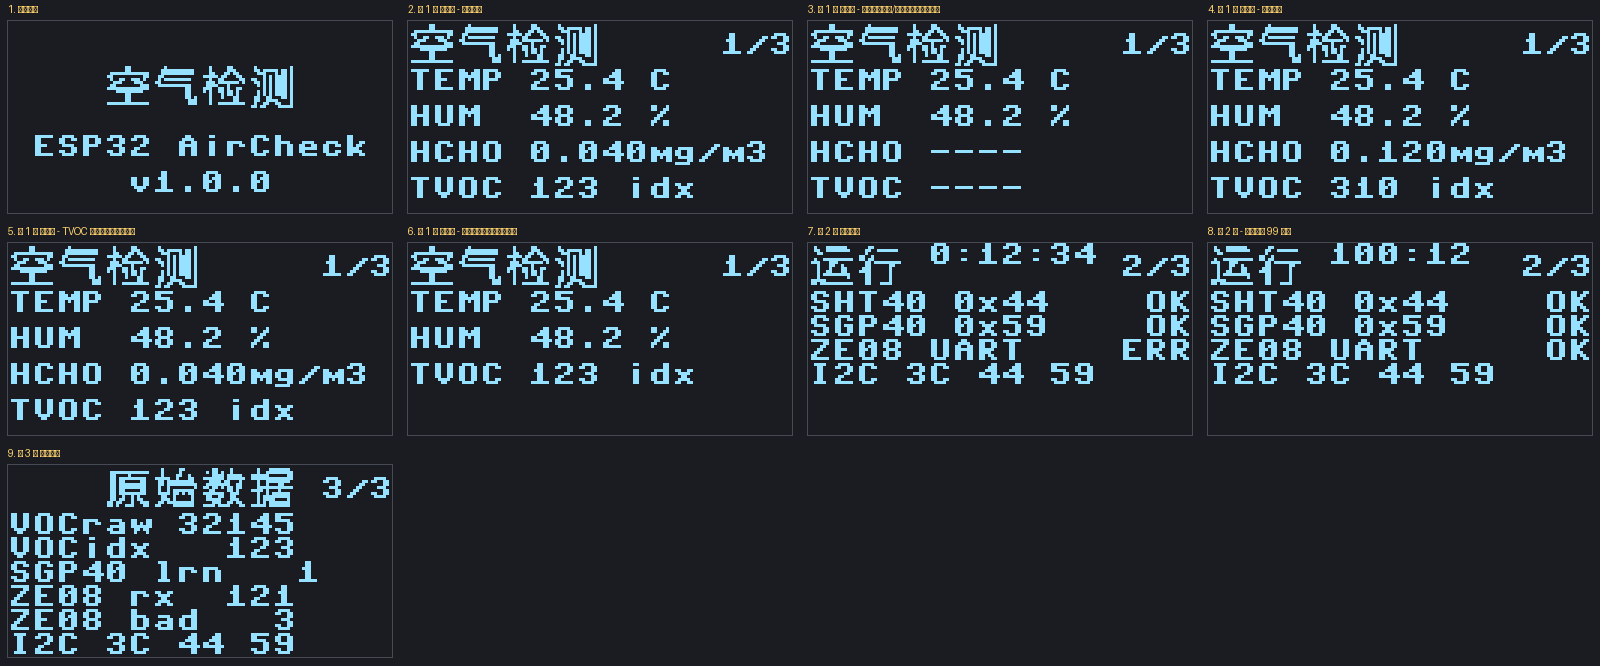
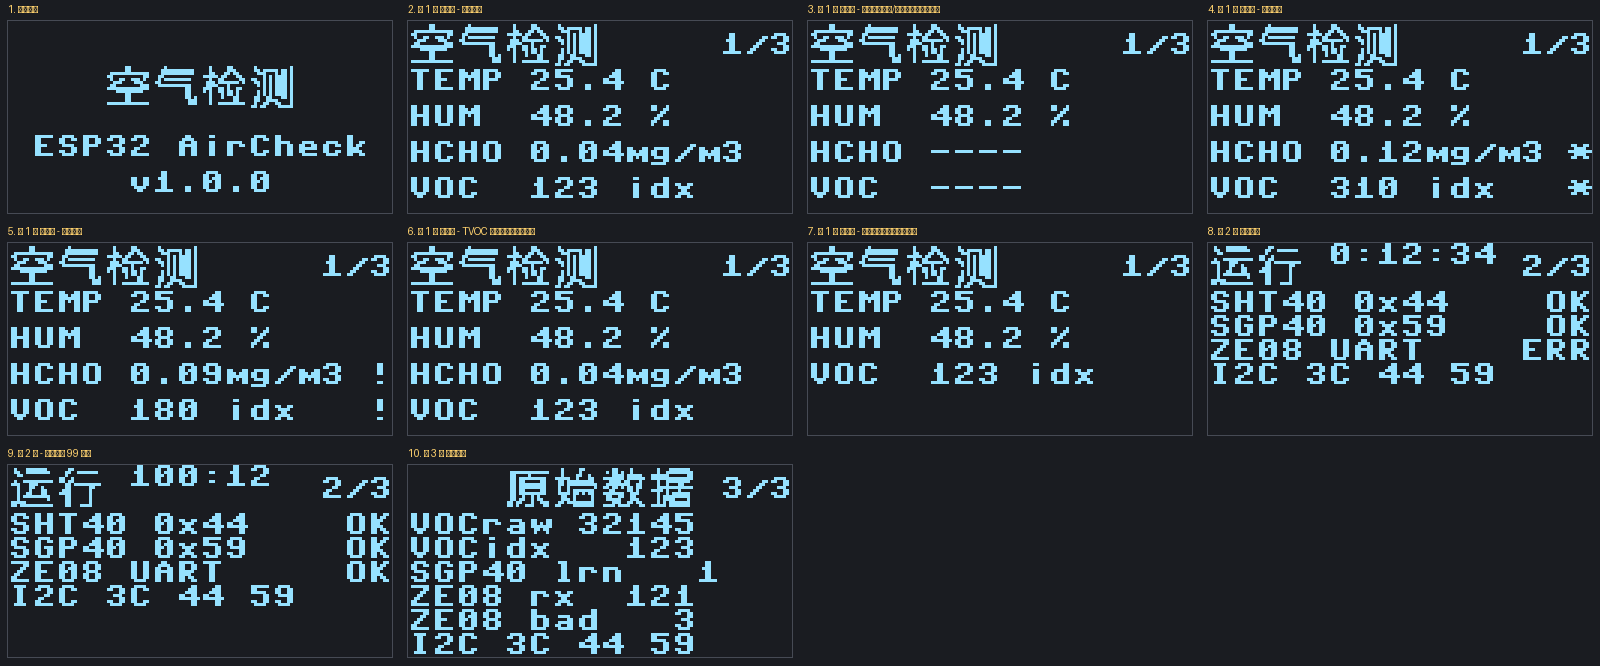
修正传感器换算与显示, 支持 ZE08 问答模式
- ZE08 问答模式周期请求, 修复 5 秒后掉线
- 统一 ze08.ugm3 单位为 ug/m3, 超量程限幅
- HCHO 显示改为 2 位小数, 主界面标签改为 VOC
- 启用警告阈值: 警告 ! / 报警 *; 修正 SGP40 软复位和 SHT40 加热器
- 补充 ZE08 问答、单位、警告阈值回归测试并同步文档

diff --git a/src/sensors.py b/src/sensors.py
@@ -130,7 +130,6 @@ class Channel:
         self.learn_end = 0
         self.probe_start = 0
         self.next_probe = 0
-        self.asked = False
         self.fails = 0
         self.error = None
 
@@ -148,7 +147,6 @@ class Channel:
         self.next_probe = now + cfg.RESCAN_MS
         self.fails = 0
         self.probe_start = now
-        self.asked = False
 
     def snapshot(self, now):
         state = self.state
@@ -245,6 +243,7 @@ class SensorManager:
             "tvoc": None,
         }
         self.alarm = {"sht40": False, "ze08": False, "sgp40": False}
+        self.warn = {"sht40": False, "ze08": False, "sgp40": False}
         self.info = {
             "voc_raw": 0, "voc_learning": False, "voc_uptime": 0,
             "ze08_frames": 0, "ze08_bad": 0, "scan": "",
@@ -484,7 +483,6 @@ class SensorManager:
                 return
             ch.state = ST_PROBE
             ch.probe_start = now
-            ch.asked = False
             if self.drv_ze08 is None:
                 self.drv_ze08 = ze08.ZE08(self.uart)
             self.drv_ze08.reset()
@@ -494,6 +492,14 @@ class SensorManager:
             ch.probe_start = now
 
         z = self.drv_ze08
+
+        # 问答模式不会主动上传, 必须周期性地要数据。
+        # 主动模式(0x17)则完全不用发命令。
+        if ch.state in (ST_WARMUP, ST_READY) and z.mode == "qa":
+            if z._last_cmd_ms is None or \
+                    ticks_diff(now, z._last_cmd_ms) >= 900:
+                z.request_reading()
+
         got = z.poll()
         self.info["ze08_frames"] = z.frames
         self.info["ze08_bad"] = z.bad_frames
@@ -507,11 +513,13 @@ class SensorManager:
                 self.values["hcho_mg"] = z.ppb * ze08.PPB_TO_MG
                 ch.begin_warmup(now)
                 print("[ZE08] 已连接, 预热 %ds" % ch.warmup_s)
-            elif ticks_diff(now, ch.probe_start) > 500 and not ch.asked:
-                z.request_reading()             # 模块可能被切成问答模式
-                ch.asked = True
             elif ticks_diff(now, ch.probe_start) > 2500:
                 ch.drop(now, ST_ABSENT)
+            elif ticks_diff(now, ch.probe_start) > 500:
+                # 每 500ms 重试一次, 直到超时; 防止单次请求丢失
+                if z._last_cmd_ms is None or \
+                        ticks_diff(now, z._last_cmd_ms) >= 500:
+                    z.request_reading()
             return
 
         if got is not None:
@@ -563,12 +571,22 @@ class SensorManager:
     def _eval_alarm(self):
         v = self.values
         a = self.alarm
+        w = self.warn
+        ze_ready = self.ch["ze08"].state == ST_READY
+        sg_ready = self.ch["sgp40"].state == ST_READY
         # 只有在"预热完成"之后才判定, 避免预热期间的无效读数误报
-        a["ze08"] = (self.ch["ze08"].state == ST_READY
-                     and v["hcho_mg"] is not None and v["hcho_mg"] >= cfg.HCHO_ALARM)
-        a["sgp40"] = (self.ch["sgp40"].state == ST_READY
-                      and v["tvoc"] is not None and v["tvoc"] >= cfg.TVOC_ALARM)
+        a["ze08"] = (ze_ready and v["hcho_mg"] is not None
+                     and v["hcho_mg"] >= cfg.HCHO_ALARM)
+        a["sgp40"] = (sg_ready and v["tvoc"] is not None
+                      and v["tvoc"] >= cfg.TVOC_ALARM)
         a["sht40"] = False
+        # 警告级(不响蜂鸣器, 主界面显示 !); 报警时警告也同时为 True,
+        # 界面优先显示闪烁的 *。
+        w["ze08"] = (ze_ready and v["hcho_mg"] is not None
+                     and v["hcho_mg"] >= cfg.HCHO_WARN)
+        w["sgp40"] = (sg_ready and v["tvoc"] is not None
+                      and v["tvoc"] >= cfg.TVOC_WARN)
+        w["sht40"] = False
         return a
 
     def any_alarm(self):
@@ -592,5 +610,6 @@ class SensorManager:
             "channels": chans,
             "values": self.values,
             "alarm": self.alarm,
+            "warn": self.warn,
             "info": self.info,
         }

diff --git a/tools/tests/test_state_machine.py b/tools/tests/test_state_machine.py
@@ -12,6 +12,8 @@
   4. 报警判定不能依赖屏幕刷新(OLED 没接也要能报警)
   5. 总线恢复失败时要保留上次地址, 下一轮扫描继续重试
   6. 10 秒无操作熄屏; 按键只唤醒, 不翻页
+  7. ZE08 问答模式必须周期请求, 否则 5 秒后就掉线
+  8. 警告阈值和报警阈值的关系
 """
 
 import time
@@ -19,6 +21,7 @@ import time
 import config as cfg
 import main
 import sensors
+import ze08
 from ui import ST_PROBE, ST_ABSENT, ST_WARMUP, ST_READY
 
 FAILS = []
@@ -67,6 +70,44 @@ class FakeUART:
 
     def write(self, b):
         return len(b)
+
+
+def qa_frame(ugm3, ppb):
+    f = bytearray(b"\xff\x86\x00\x00\x00\x00\x00\x00\x00")
+    f[2] = (ugm3 >> 8) & 0xFF
+    f[3] = ugm3 & 0xFF
+    f[6] = (ppb >> 8) & 0xFF
+    f[7] = ppb & 0xFF
+    f[8] = ze08.checksum(f)
+    return bytes(f)
+
+
+class FakeQaUART:
+    """只在收到 0x86 读命令时回一帧, 模拟问答模式。"""
+
+    def __init__(self):
+        self.rx = bytearray()
+        self.requests = 0
+
+    def write(self, data):
+        if data == ze08.CMD_READ_QA:
+            self.requests += 1
+            self.rx.extend(qa_frame(40, 32))
+        return len(data)
+
+    def any(self):
+        return len(self.rx)
+
+    def read(self, n=None):
+        if not self.rx:
+            return None
+        if n is None or n >= len(self.rx):
+            chunk = bytes(self.rx)
+            self.rx = bytearray()
+            return chunk
+        chunk = bytes(self.rx[:n])
+        self.rx = self.rx[n:]
+        return chunk
 
 
 # ---------------------------------------------------------------- 1
@@ -138,6 +179,28 @@ check(mgr.any_alarm(), "甲醛超阈值 -> any_alarm() = True")
 mgr.values["hcho_mg"] = None
 check(not mgr.any_alarm(), "甲醛无数据 -> any_alarm() = False")
 
+# ---------------------------------------------------------------- 5b
+print()
+print("=== 5b. 警告阈值: 警告不报警, 超过报警线两者都置位 ===")
+mgr.values["tvoc"] = cfg.TVOC_WARN + 1
+check(mgr.snapshot()["warn"]["sgp40"] and not mgr.alarm["sgp40"],
+      "TVOC 在警告区 -> 警告, 不报警")
+mgr.values["tvoc"] = cfg.TVOC_ALARM + 1
+snap = mgr.snapshot()
+check(snap["warn"]["sgp40"] and snap["alarm"]["sgp40"],
+      "TVOC 超报警线 -> 警告和报警都置位")
+mgr.values["tvoc"] = None
+
+mgr.values["hcho_mg"] = cfg.HCHO_WARN + 0.005
+snap = mgr.snapshot()
+check(snap["warn"]["ze08"] and not snap["alarm"]["ze08"],
+      "HCHO 在警告区 -> 警告, 不报警")
+mgr.values["hcho_mg"] = cfg.HCHO_ALARM + 0.01
+snap = mgr.snapshot()
+check(snap["warn"]["ze08"] and snap["alarm"]["ze08"],
+      "HCHO 超报警线 -> 警告和报警都置位")
+mgr.values["hcho_mg"] = None
+
 # ---------------------------------------------------------------- 6
 print()
 print("=== 6. 总线恢复失败时要保留上次地址, 下一轮继续重试 ===")
@@ -203,6 +266,26 @@ check(app._screen_on and view.on == 1 and view.pages == 0,
 
 app._on_button_press(now + cfg.SCREEN_OFF_MS + 2)
 check(view.pages == 1, "再按一次才翻页")
+
+# ---------------------------------------------------------------- 8
+print()
+print("=== 8. ZE08 问答模式: 周期请求, 超过 5 秒仍保持在线 ===")
+qa_uart = FakeQaUART()
+qm = sensors.SensorManager(FakeI2C(), qa_uart, oled_ok=False)
+qm.ch["ze08"].warmup_s = 1          # 缩短预热, 让测试跑得快一点
+t0 = time.ticks_ms()
+while time.ticks_diff(time.ticks_ms(), t0) < 7000:
+    qm._step_ze08()
+    time.sleep_ms(100)
+
+check(qm.ch["ze08"].state == ST_READY,
+      "ZE08 状态 = %s (期望 READY)" % qm.ch["ze08"].state)
+check(qm.values["hcho_ppb"] == 32,
+      "HCHO 持续更新 = %r" % qm.values["hcho_ppb"])
+check(qa_uart.requests >= 5,
+      "问答请求次数 = %d (期望 >= 5)" % qa_uart.requests)
+check(qm.info["ze08_frames"] >= 5,
+      "有效帧数 = %d (期望 >= 5)" % qm.info["ze08_frames"])
 
 # ---------------------------------------------------------------- 汇总
 print()

diff --git a/src/ui.py b/src/ui.py
@@ -277,14 +277,17 @@ class UI:
         chans = snap["channels"]
         vals = snap["values"]
         alarm = snap["alarm"]
+        warn = snap["warn"]
 
         # 顶部只留标题 + 页码。连接/预热/异常状态统一放第 2 页,
-        # 主界面专心显示读数, 不再用 ! / ? / 状态灯 / 状态栏打扰视线。
+        # 主界面只保留读数和超标/警告标记。
         self.ptext(T("title"), 0, 0)
         self._page_indicator(104)
 
         # 4 行读数: 标签左对齐, 数值从固定列(x=40)开始,
         # 行距 12px, 把标题以下的 48px 均匀铺满。
+        # HCHO 保留 2 位小数: ZE08 分辨率约 10 ppb (0.0125 mg/m3),
+        # 第 3 位小数没有实际意义。
         rows = (
             ("sht40", "TEMP",
              "----" if vals["temp"] is None else "%.1f C" % vals["temp"]),
@@ -292,25 +295,28 @@ class UI:
              "----" if vals["rh"] is None else "%.1f %%" % vals["rh"]),
             ("ze08", "HCHO",
              "----" if vals["hcho_mg"] is None
-             else "%.3fmg/m3" % vals["hcho_mg"]),
-            ("sgp40", "TVOC",
+             else "%.2fmg/m3" % vals["hcho_mg"]),
+            ("sgp40", "VOC",
              "----" if vals["tvoc"] is None else "%3d idx" % vals["tvoc"]),
         )
         y = 16
         for key, label, text in rows:
             if not chans[key].get("enabled", True):
                 continue
-            self._value_row(y, label, text, alarm.get(key))
+            self._value_row(y, label, text, alarm.get(key), warn.get(key))
             y += 12
 
         self.flush()
 
-    def _value_row(self, y, label, value, is_alarm):
+    def _value_row(self, y, label, value, is_alarm, is_warn):
         self.text(label, 0, y)
         self.text(value, 40, y)
         if is_alarm:
-            # 报警仍然保留在主界面: 数值右侧闪烁 *
+            # 报警优先: 数值右侧闪烁 *
             self.text("*" if (time.ticks_ms() // 400) & 1 else " ", 120, y)
+        elif is_warn:
+            # 警告级: 常亮 !; 不响蜂鸣器
+            self.text("!", 120, y)
 
     # ================= 第 2 页 运行信息 =================
     # 这一页是诊断用的, 行距只有 8 像素, 放不下 16 像素高的汉字,

diff --git a/tools/tests/test_ui.py b/tools/tests/test_ui.py
@@ -54,7 +54,8 @@ def chan(state, warm_left=0, learning=False, enabled=True):
             "warm_left": warm_left, "enabled": enabled}
 
 
-def snapshot(states, values, alarm=None, uptime=12 * 60 + 34, oled_ok=True):
+def snapshot(states, values, alarm=None, warn=None, uptime=12 * 60 + 34,
+             oled_ok=True):
     en = {"sht40": cfg.SHT40_ENABLED, "sgp40": cfg.SGP40_ENABLED,
           "ze08": cfg.ZE08_ENABLED}
     channels = {}
@@ -63,6 +64,9 @@ def snapshot(states, values, alarm=None, uptime=12 * 60 + 34, oled_ok=True):
     a = {"sht40": False, "ze08": False, "sgp40": False}
     if alarm:
         a.update(alarm)
+    w = {"sht40": False, "ze08": False, "sgp40": False}
+    if warn:
+        w.update(warn)
     return {
         "uptime": uptime,
         "oled_ok": oled_ok,
@@ -70,6 +74,7 @@ def snapshot(states, values, alarm=None, uptime=12 * 60 + 34, oled_ok=True):
         "channels": channels,
         "values": values,
         "alarm": a,
+        "warn": w,
         "info": {"voc_raw": 32145, "voc_learning": True, "voc_uptime": 120,
                  "ze08_frames": 121, "ze08_bad": 3,
                  "scan": "3C 44 59"},
@@ -112,11 +117,17 @@ s = snapshot({}, dict(FULL, tvoc=310, hcho_mg=0.12, hcho_ppb=96),
 u.show_main(s)
 dump(oled, "第 1 页 主界面 - 两项超标")
 
+# ---------------------------------------------------------------- 主界面 警告
+s = snapshot({}, dict(FULL, tvoc=180, hcho_mg=0.09, hcho_ppb=72),
+             warn={"sgp40": True, "ze08": True})
+u.show_main(s)
+dump(oled, "第 1 页 主界面 - 两项警告")
+
 # ---------------------------------------------------------------- 主界面 学习期
 s = snapshot({}, FULL)
 s["channels"]["sgp40"]["learning"] = True
 u.show_main(s)
-dump(oled, "第 1 页 主界面 - TVOC 学习期不在本页显示")
+dump(oled, "第 1 页 主界面 - VOC 学习期不在本页显示")
 
 # ---------------------------------------------------------------- 某一项被关掉
 s = snapshot({}, FULL)

diff --git a/src/config.py b/src/config.py
@@ -132,11 +132,16 @@ VOC_STATE_SAVE_MS = 10 * 60 * 1000      # 10 分钟
 # --------------------------------------------------------------------------
 # 8. 报警阈值
 # --------------------------------------------------------------------------
-# 甲醛限值参考 GB/T 18883-2022《室内空气质量标准》: 0.08 mg/m3 (1小时均值)
+# WARN  = 警告级: 主界面数值旁显示常亮 !, LED/蜂鸣器不动作
+# ALARM = 报警级: 主界面闪烁 *, 板载 LED 快闪, (若启用)蜂鸣器鸣叫
+#
+# 甲醛: 0.08 参考 GB/T 18883-2022 (1小时均值), 0.10 为项目报警线。
+# 代码比较的是瞬时值, 不是 1 小时滑动平均。
 HCHO_WARN = 0.08        # mg/m3
 HCHO_ALARM = 0.10       # mg/m3
 
 # VOC 指数 (Sensirion 定义): 100 为基线, 越大空气越差
+# 注意这是指数, 不是浓度; 界面标签为 VOC
 TVOC_WARN = 150
 TVOC_ALARM = 250
 

diff --git a/src/sht40.py b/src/sht40.py
@@ -110,6 +110,16 @@ class SHT40:
         return t, rh
 
     def heater_200mw_1s(self):
-        """片上加热器 200mW 1s(用于除凝露), 之后需重新 measure()。"""
+        """片上加热器 200mW 1s(用于除凝露), 返回加热结束后的 (温度, 湿度)。"""
         self._cmd(_CMD_HEATER_200MW_1S)
-        sleep_ms(1100)
+        sleep_ms(1200)                  # 数据手册 t_heater 最大 1.19s
+        t_raw, rh_raw = self._read_check(2)
+        t = -45.0 + 175.0 * t_raw / 65535.0
+        rh = -6.0 + 125.0 * rh_raw / 65535.0
+        if rh < 0.0:
+            rh = 0.0
+        elif rh > 100.0:
+            rh = 100.0
+        self.temperature = t
+        self.humidity = rh
+        return t, rh

diff --git a/src/sgp40.py b/src/sgp40.py
@@ -88,7 +88,10 @@ class SGP40:
             return False
 
     def soft_reset(self):
-        self._send(_CMD_SOFT_RESET)
+        # SGP40 的软复位是 general call(地址 0x00) + 命令 0x0006。
+        # 注意 general call 会同时复位总线上其他支持该命令的器件,
+        # 本项目主程序没有调用它。
+        self.i2c.writeto(0x00, b"\x00\x06")
         sleep_ms(20)
 
     def self_test(self):
